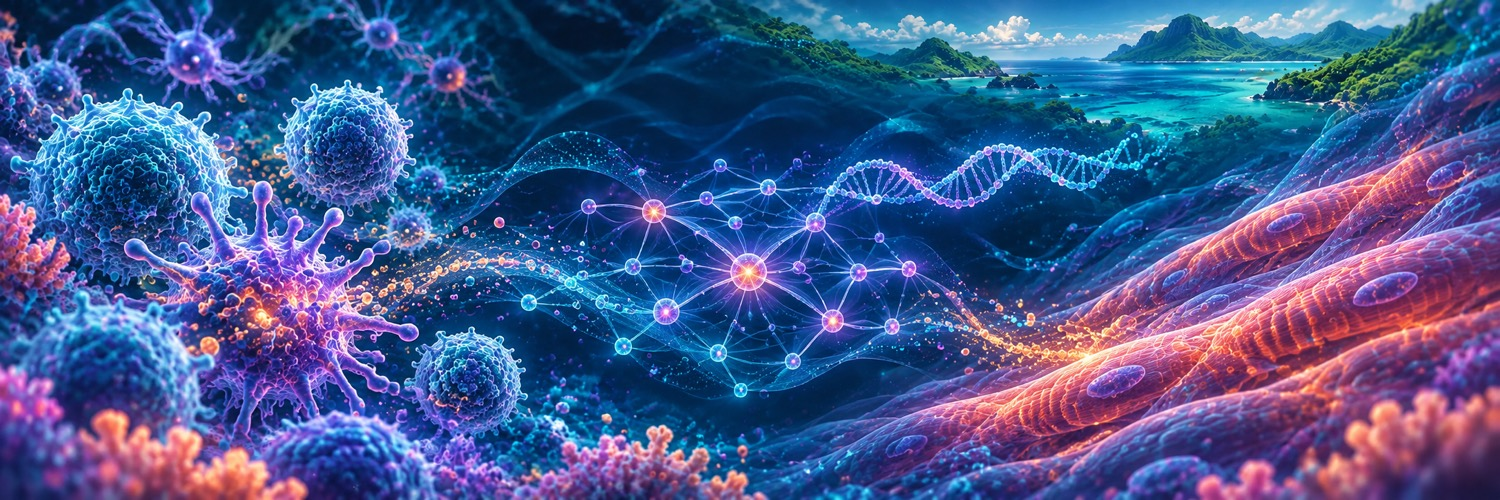
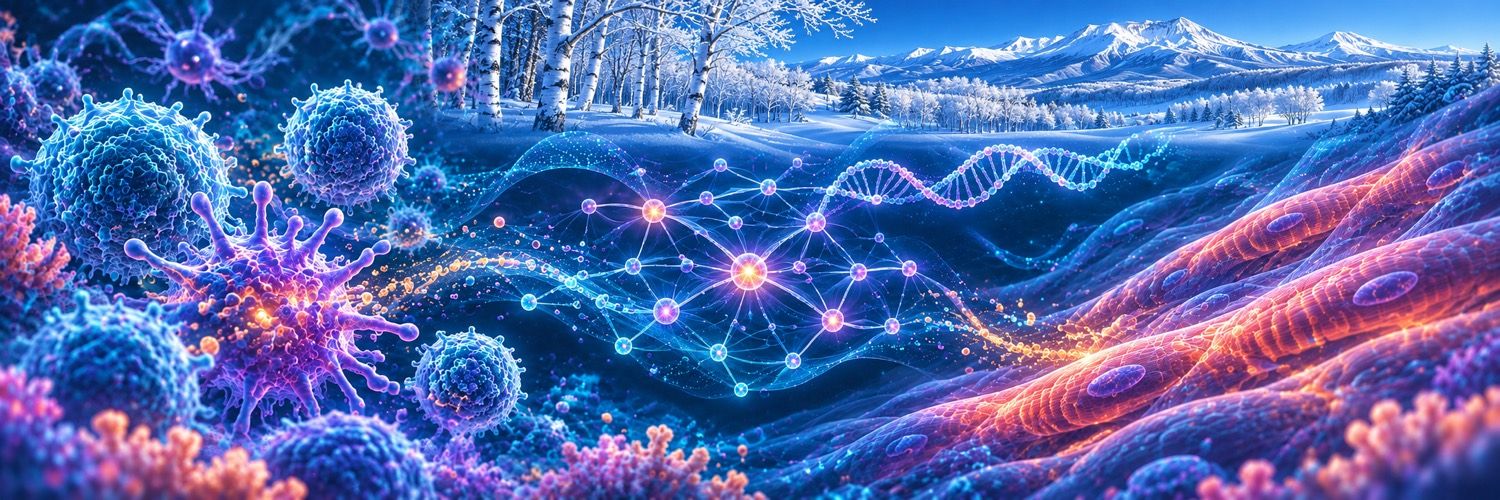
Refresh science artwork with Hokkaido winter scenery

diff --git a/README.md b/README.md
@@ -4,7 +4,7 @@
 
 **A welcoming guide to single-cell models:** learn the ideas, run a small analysis, and explore virtual perturbations.
 
-![Conceptual illustration of immune cells, molecular networks and an Okinawan coastline](tutorial/img/ai-cell-atlas.jpg)
+![Conceptual illustration of immune cells and molecular networks beneath snowy Hokkaido mountains](tutorial/img/ai-cell-atlas.jpg)
 
 *AI-generated conceptual artwork inspired by [Kaisar's research website](https://kays3.github.io/). The illustration is not a scientific result.*
 
@@ -146,7 +146,7 @@ Explore gene ranking, zero-shot learning, fine-tuning and virtual perturbation i
 
 ## Advanced: the paper's pipeline
 
-![Conceptual artwork connecting immune cells, molecular networks and heart muscle](tutorial/img/ai-perturbation-landscape.jpg)
+![Conceptual artwork connecting immune cells, molecular networks, heart muscle and snowy Hokkaido scenery](tutorial/img/ai-perturbation-landscape.jpg)
 
 *AI-generated illustration: an artistic interpretation of the biological contexts explored in the tutorial.*
 
